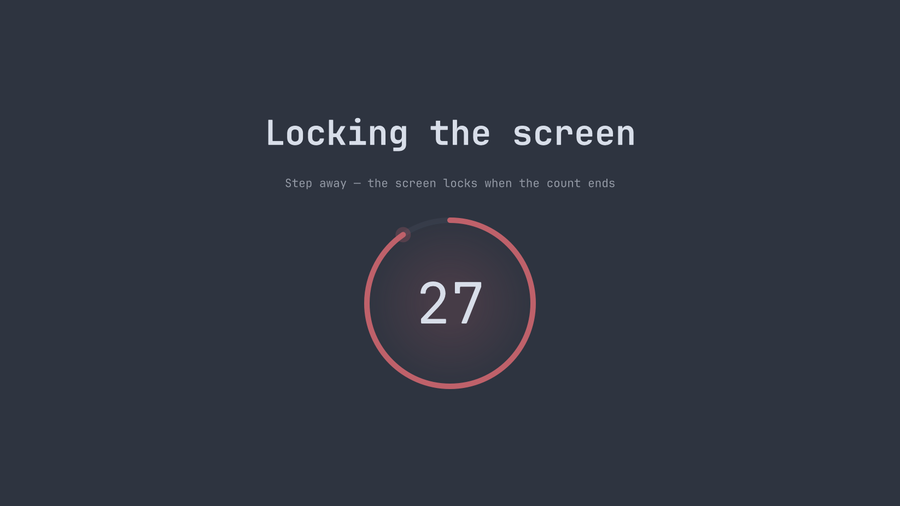
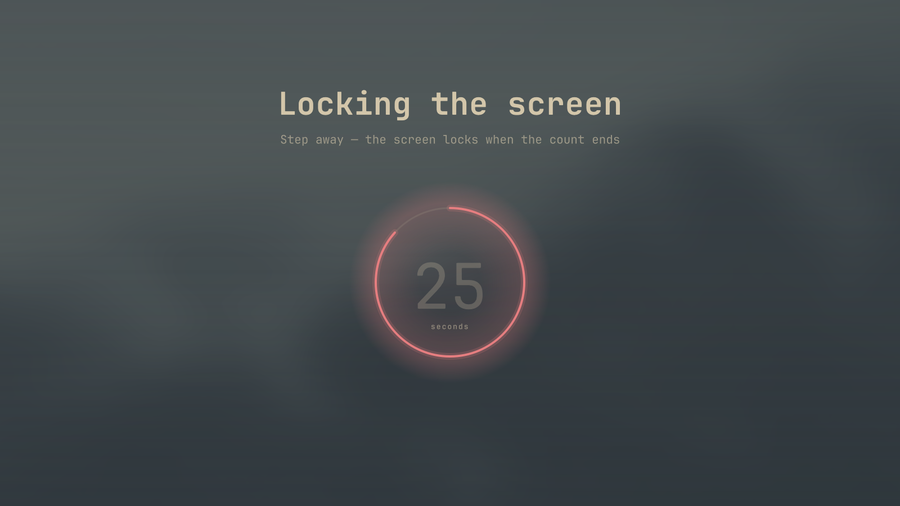
docs: rewrite the README around a quick start and refresh screenshots

diff --git a/README.md b/README.md
@@ -1,50 +1,127 @@
 # Omablink
 
-Screen-break timer for [Omarchy](https://omarchy.org) 4 (Quattro). Four
-independent clocks, a fullscreen break overlay, a blink hint that never steals
-focus, and today's numbers in the widget's own panel.
+A screen-break timer for the [Omarchy](https://omarchy.org) bar. It reminds
+you to look away from the screen, to stand up, and to blink, and it waits
+while you are on a call.
 
-![Break overlay](assets/break.png)
+![Break screen](assets/break.png)
 
-## What it does
-
-| Tier | Default | What happens |
-|---|---|---|
-| Eye break | every 20 min, 20 s | Fullscreen countdown. Skippable |
-| Long break | every 4 h, 2 min | Fullscreen countdown, "stand up". Skippable |
-| Screen lock | every 45 min, 30 s warning | Countdown, then Omarchy's lock screen. **Not** skippable |
-| Blink hint | every 5 min, ~0.8 s | Eyelids sweep shut and open again. Takes no focus, no clicks |
-
-Each tier counts its own elapsed seconds, so skipping or deferring one does
-not shift the others. A longer rest satisfies the shorter ones: a long break
-resets the eye timer, a lock resets everything.
-
-The widget shows the countdown to whichever break comes first; the blink hint
-is a strip that appears under the bar and takes neither focus nor clicks.
-
-![Bar widget](assets/bar.png) ![Blink hint](assets/blink.png)
-
-## Install
+## Quick start
 
 ```bash
 omarchy plugin add https://github.com/vyacheslav-voloshyn/omablink.git --enable
 ```
 
-`enable` appends the widget to the end of the bar's center section; move it
-with `omarchy bar move amsi.omablink --section right`, or reorder the entry in
-`~/.config/omarchy/shell.json`.
+A countdown to the next break appears in the bar: ![Bar widget](assets/bar.png)
 
-## Controls
+- **Click** it for today's numbers and all the settings.
+- **Right-click** it to take an eye break now.
+- **Middle-click** it to pause or resume.
 
-| Action | How |
+The defaults follow the 20-20-20 rule, so you don't need to configure anything.
+Requires Omarchy 4 and is tested on 4.5.
+
+## What happens and when
+
+| Reminder | Default | What you see | Can you skip it? |
+|---|---|---|---|
+| Eye break | every 20 min, for 20 s | Full screen: the blurred wallpaper and a countdown ring | Yes |
+| Long break | every 4 h, for 2 min | The same screen, telling you to stand up | Yes |
+| Screen lock | every 45 min | A 30 s countdown, then Omarchy's lock screen | **No** |
+| Blink hint | every 5 min, for 2 s | A small card in the top-right corner whose eye blinks twice | It goes away on its own |
+
+A minute before a break, a notification tells you it is coming.
+
+The reminders run on separate timers. Skipping one does not move the others.
+A longer rest counts for the shorter ones: a long break resets the eye timer,
+and a lock resets everything.
+
+![Blink hint](assets/blink.png)
+
+### During a break
+
+| To | Do this |
 |---|---|
-| Panel — stats and every setting | Left-click the widget |
-| Eye break now | Right-click the widget |
-| Pause / resume | Middle-click the widget |
-| Skip a running break | hold `Esc`, or the Skip button (not on a lock break) |
-| Postpone a running break | hold `Space`, or the +5 min button |
+| Skip the break | Hold `Esc`, or click *hold to skip* |
+| Postpone it by 5 min | Hold `Space`, or click *hold for +5 min* |
 
-Keybindings are yours to add — in `~/.config/hypr/bindings.lua`:
+You have to hold the key, not tap it. `Esc` is too common a keystroke,
+especially in vim: a single press closed the break before it had finished
+drawing. A lock break ignores both keys.
+
+![Lock countdown](assets/lock.png)
+
+## Settings
+
+Click the widget. Everything is in that one panel:
+
+- **Today**: breaks taken, skipped, blink hints, and screen time.
+- **Schedule**: change intervals and lengths with − / +.
+- **Breaks and holds**: turn each reminder and each hold condition on or off.
+- **Buttons** to start an eye break, start a long break, or pause.
+
+![Settings panel](assets/panel.png)
+
+The panel writes to the widget's entry in `~/.config/omarchy/shell.json`.
+That file is the only place settings are stored, and a hand edit takes effect
+immediately.
+
+| Key | Default | Meaning |
+|---|---|---|
+| `workMinutes` | 20 | Time between eye breaks |
+| `breakSeconds` | 20 | Length of an eye break |
+| `longEnabled` | true | Long breaks on |
+| `longMinutes` / `longSeconds` | 240 / 120 | Time between long breaks / their length |
+| `lockEnabled` | true | Screen lock on |
+| `lockMinutes` | 45 | Time between screen locks |
+| `lockCountdownSeconds` | 30 | Countdown before the screen locks |
+| `blinkEnabled` | true | Blink hints on |
+| `blinkMinutes` / `blinkHintSeconds` | 5 / 2 | Time between blink hints / how long the card stays |
+| `headsUpSeconds` | 60 | How early the "break soon" notification comes (0 turns it off) |
+| `postponeMinutes` | 5 | How much one postpone adds |
+| `idleMinutes` | 3 | How long you must be away before the timers stop |
+| `pauseOnFullscreen` | true | Wait while a window is fullscreen |
+| `pauseOnMicrophone` | true | Wait while an app is using the microphone |
+| `pauseOnVideo` | true | Wait while the camera or a screen share is on |
+| `pauseOnMeeting` | true | Wait while a window matching `meetingPattern` is open |
+| `meetingPattern` | Meet, Zoom, Teams, Webex, Jitsi, huddle | Regex checked against every window's title and class |
+| `pauseOnIdle` | true | Stop the timers while you are away |
+
+The − / + buttons move in steps: 5 min for the eye break, 15 min for the long
+break. To set a value between steps, use `set` (see below) or edit
+`shell.json` directly.
+
+Omarchy has a built-in settings form for bar widgets, but it is never
+displayed, which is why the panel handles settings itself.
+
+## Breaks wait for your calls
+
+If a break comes due at a bad moment, it is not dropped. It moves back a
+minute at a time until the moment passes. The widget's tooltip shows what it
+is waiting for.
+
+What counts as a bad moment:
+
+- **Microphone in use.** This catches calls in a browser tab, such as Google
+  Meet or a Slack huddle. Muting releases the microphone, so a muted call is
+  caught only by the meeting window check below.
+- **A meeting window**, found by `meetingPattern`. This also catches a call
+  where you only listen. Keep the pattern narrow: one that matches a chat app
+  you keep open all day would hold every break forever. A browser only reports
+  the title of its active tab, so a call in a background tab is not seen.
+- **Camera or screen share**, found through PipeWire video nodes.
+- **A fullscreen window.**
+- **You are away.** After `idleMinutes` with no input, the timers stop. If
+  you were away longer than one break, the break counts as taken. A video
+  player that keeps the screen awake does not stop the eye timer.
+
+These checks are made by `bin/omablink-pause-check`. It runs once, at the
+moment a break is due, not in the background. It takes about 40 ms.
+
+## Keybindings and scripting
+
+Omablink adds no keybindings. To add your own, put them in
+`~/.config/hypr/bindings.lua`:
 
 ```lua
 o.bind("SUPER + ALT + L", "Omablink settings", "omarchy-shell amsi.omablink panel")
@@ -52,108 +129,63 @@ o.bind("SUPER + SHIFT + L", "Omablink pause", "omarchy-shell amsi.omablink toggl
 o.bind("SUPER + SHIFT + CTRL + L", "Omablink break now", "omarchy-shell amsi.omablink breakNow")
 ```
 
-IPC:
+Every action can also be run from the command line, with
+`omarchy-shell amsi.omablink <command>`:
 
-```
-omarchy-shell amsi.omablink status | stats | panel
-omarchy-shell amsi.omablink pause | resume | toggle
-omarchy-shell amsi.omablink breakNow | longNow | lockNow | skip | blink
-omarchy-shell amsi.omablink set <key> <value>
-```
+| Command | What it does |
+|---|---|
+| `status` | Shows the next break and the settings in effect |
+| `stats` | Prints today's numbers as JSON |
+| `panel` | Opens or closes the panel |
+| `pause` / `resume` / `toggle` | Pauses or resumes the timers |
+| `breakNow` / `longNow` / `lockNow` | Starts that break now |
+| `skip` | Skips the running break (not a lock) |
+| `blink` | Shows the blink hint |
+| `set <key> <value>` | Changes a setting, the same way the panel does |
 
-`set` writes into `shell.json` exactly as the panel does, so a keybinding or a
-hook can change the schedule: `set lockEnabled false`, `set workMinutes 25`.
-
-## Settings
-
-The panel is the settings window. Omarchy 4.0.3 stores a bar widget's
-`settingsForm` in plugin metadata but never renders it (`shell.qml:1407` is the
-only reader), so there is no host dialog to plug into.
-
-![Settings panel](assets/panel.png)
-
-Everything it writes lands in the widget's entry in
-`~/.config/omarchy/shell.json`:
-
-| Key | Default | Meaning |
-|---|---|---|
-| `workMinutes` | 20 | Eye break interval |
-| `breakSeconds` | 20 | Eye break length |
-| `longMinutes` / `longSeconds` | 240 / 120 | Long break interval and length |
-| `longEnabled` | true | Long breaks on |
-| `lockMinutes` | 45 | Screen lock interval |
-| `lockCountdownSeconds` | 30 | Warning countdown before the lock |
-| `lockEnabled` | true | Screen lock on |
-| `blinkMinutes` / `blinkHintSeconds` | 5 / 2 | Blink hint interval and how long it shows |
-| `blinkEnabled` | true | Blink hints on |
-| `headsUpSeconds` | 60 | Notification this long before a break (0 = off) |
-| `postponeMinutes` | 5 | What a postpone adds |
-| `idleMinutes` | 3 | Absence after which the timers hold |
-| `pauseOnFullscreen` | true | Hold while a window is fullscreen |
-| `pauseOnMicrophone` | true | Hold while an app captures the microphone |
-| `pauseOnVideo` | true | Hold while a camera or screen share is live |
-| `pauseOnMeeting` | true | Hold while a window matching `meetingPattern` is open |
-| `meetingPattern` | Meet/Zoom/Teams/Webex/Jitsi/huddle | Regex matched against every window's title and class |
-| `pauseOnIdle` | true | Hold while away |
-
-## Holds
-
-A break that comes due at a bad moment is deferred a minute at a time, not
-dropped, so a two-hour call does not cost the whole afternoon's breaks. The
-widget's tooltip says what it is waiting for.
-
-`bin/omablink-pause-check` prints one reason per line and is called once per
-due break rather than polled (~40 ms):
-
-- **Microphone.** Google Meet and Slack huddles live in browser tabs with no
-  window of their own, so the capture stream is what catches them — while the
-  microphone is live. Muting drops the stream, which is what the meeting
-  pattern below is for.
-- **A meeting window**, matched by regex against every window's title and
-  class. Catches the listen-only call that holds neither microphone nor
-  camera. Keep the pattern narrow: one that also matches the chat client
-  sitting open all day would defer every break forever. A call in a browser
-  tab that is not its window's active tab is invisible here — Wayland only
-  ever exposes the active tab's title.
-- **A PipeWire video node** covers both the camera and a screen share through
-  xdg-desktop-portal, which are the same answer: do not cover the screen.
-- **Fullscreen** comes from `hyprctl activewindow -j`.
-- **Idle** comes from Quickshell's `IdleMonitor` with `respectInhibitors:
-  false` — a video player's inhibitor should keep the screen awake, not hold
-  the eye timer. Coming back from an absence longer than one break counts as
-  the break itself.
-
-Skipping is a hold rather than a tap: the overlay owns the keyboard while it
-is up, and a single `Esc` — the most common keystroke there is, if you live in
-vim — used to dismiss the break before it had finished drawing.
-
-The lock break switches the keyboard to the first entry of `kb_layout` before
-locking (`hyprctl switchxkblayout all 0`): hyprlock types through whatever
-layout is active, so locking on a non-Latin layout leaves a password that
-cannot be typed. It then calls Omarchy's own lock service (`omarchy-shell lock
-lock`),
-which needs PAM configured for the password prompt; `omarchy-shell lock status`
-reports `passwordPam`.
-
-![Lock countdown](assets/lock.png)
+`set` is useful from a hook, for example `set lockEnabled false` while
+presenting, or `set workMinutes 25`.
 
 ## Statistics
 
-`~/.local/state/omarchy/omablink.json` keeps one row per day (last 30): breaks
-taken per tier, locks, skipped, postponed, deferred, blink hints, and screen
-time — seconds where the timer was actually counting, so paused and away time
-is excluded. Today's row shows in the panel; `stats` over IPC returns it as
-JSON.
+Daily totals are stored in `~/.local/state/omarchy/omablink.json`, one row
+per day for the last 30 days: breaks per type, locks, skipped, postponed,
+deferred, blink hints, and screen time. Screen time counts only the seconds
+the timer was running, so time paused or away is left out.
+
+## Troubleshooting
+
+**Breaks come more often than you set.** Run `omarchy-shell amsi.omablink status`.
+It shows the settings the widget is actually using, which can differ from
+what you expect.
+
+**The panel or a break looks wrong after editing the plugin's code.** Run
+`omarchy restart shell`. A plain reload can leave the old copy of the widget
+running.
+
+**The screen locks but will not accept your password.** Omablink switches the
+keyboard to the first layout in `kb_layout` before it locks, so the password
+is never typed in a layout like Cyrillic. The lock is Omarchy's own
+(`omarchy-shell lock lock`), and its password prompt needs PAM: check
+`omarchy-shell lock status` for `passwordPam`.
+
+**Breaks never come.** Look at the widget's tooltip. If it says *Waiting:
+meeting window open* and you are not in a meeting, `meetingPattern` is
+matching something that is always open.
+
+**The break screen has no wallpaper.** The blur needs an image wallpaper. A
+video wallpaper falls back to the theme's plain background.
 
 ## Development
 
 ```bash
-node test/model-test.cjs   # timer and statistics math, Qt-free on purpose
+node test/model-test.cjs   # timer, stepper and statistics logic; runs without Qt
 ```
 
-Settings in `shell.json` are picked up live. Editing the QML is not: a reload
-can leave the previous instance running, so the bar keeps counting on the old
-code. Run `omarchy restart shell` after code changes.
+The timer and statistics logic lives in `Model.js`, which needs no Qt. The
+`.qml` files handle windows, timers and the hold checks. After changing code,
+copy the files into `~/.config/omarchy/plugins/amsi.omablink/` and run
+`omarchy restart shell`.
 
 ## Support
 
